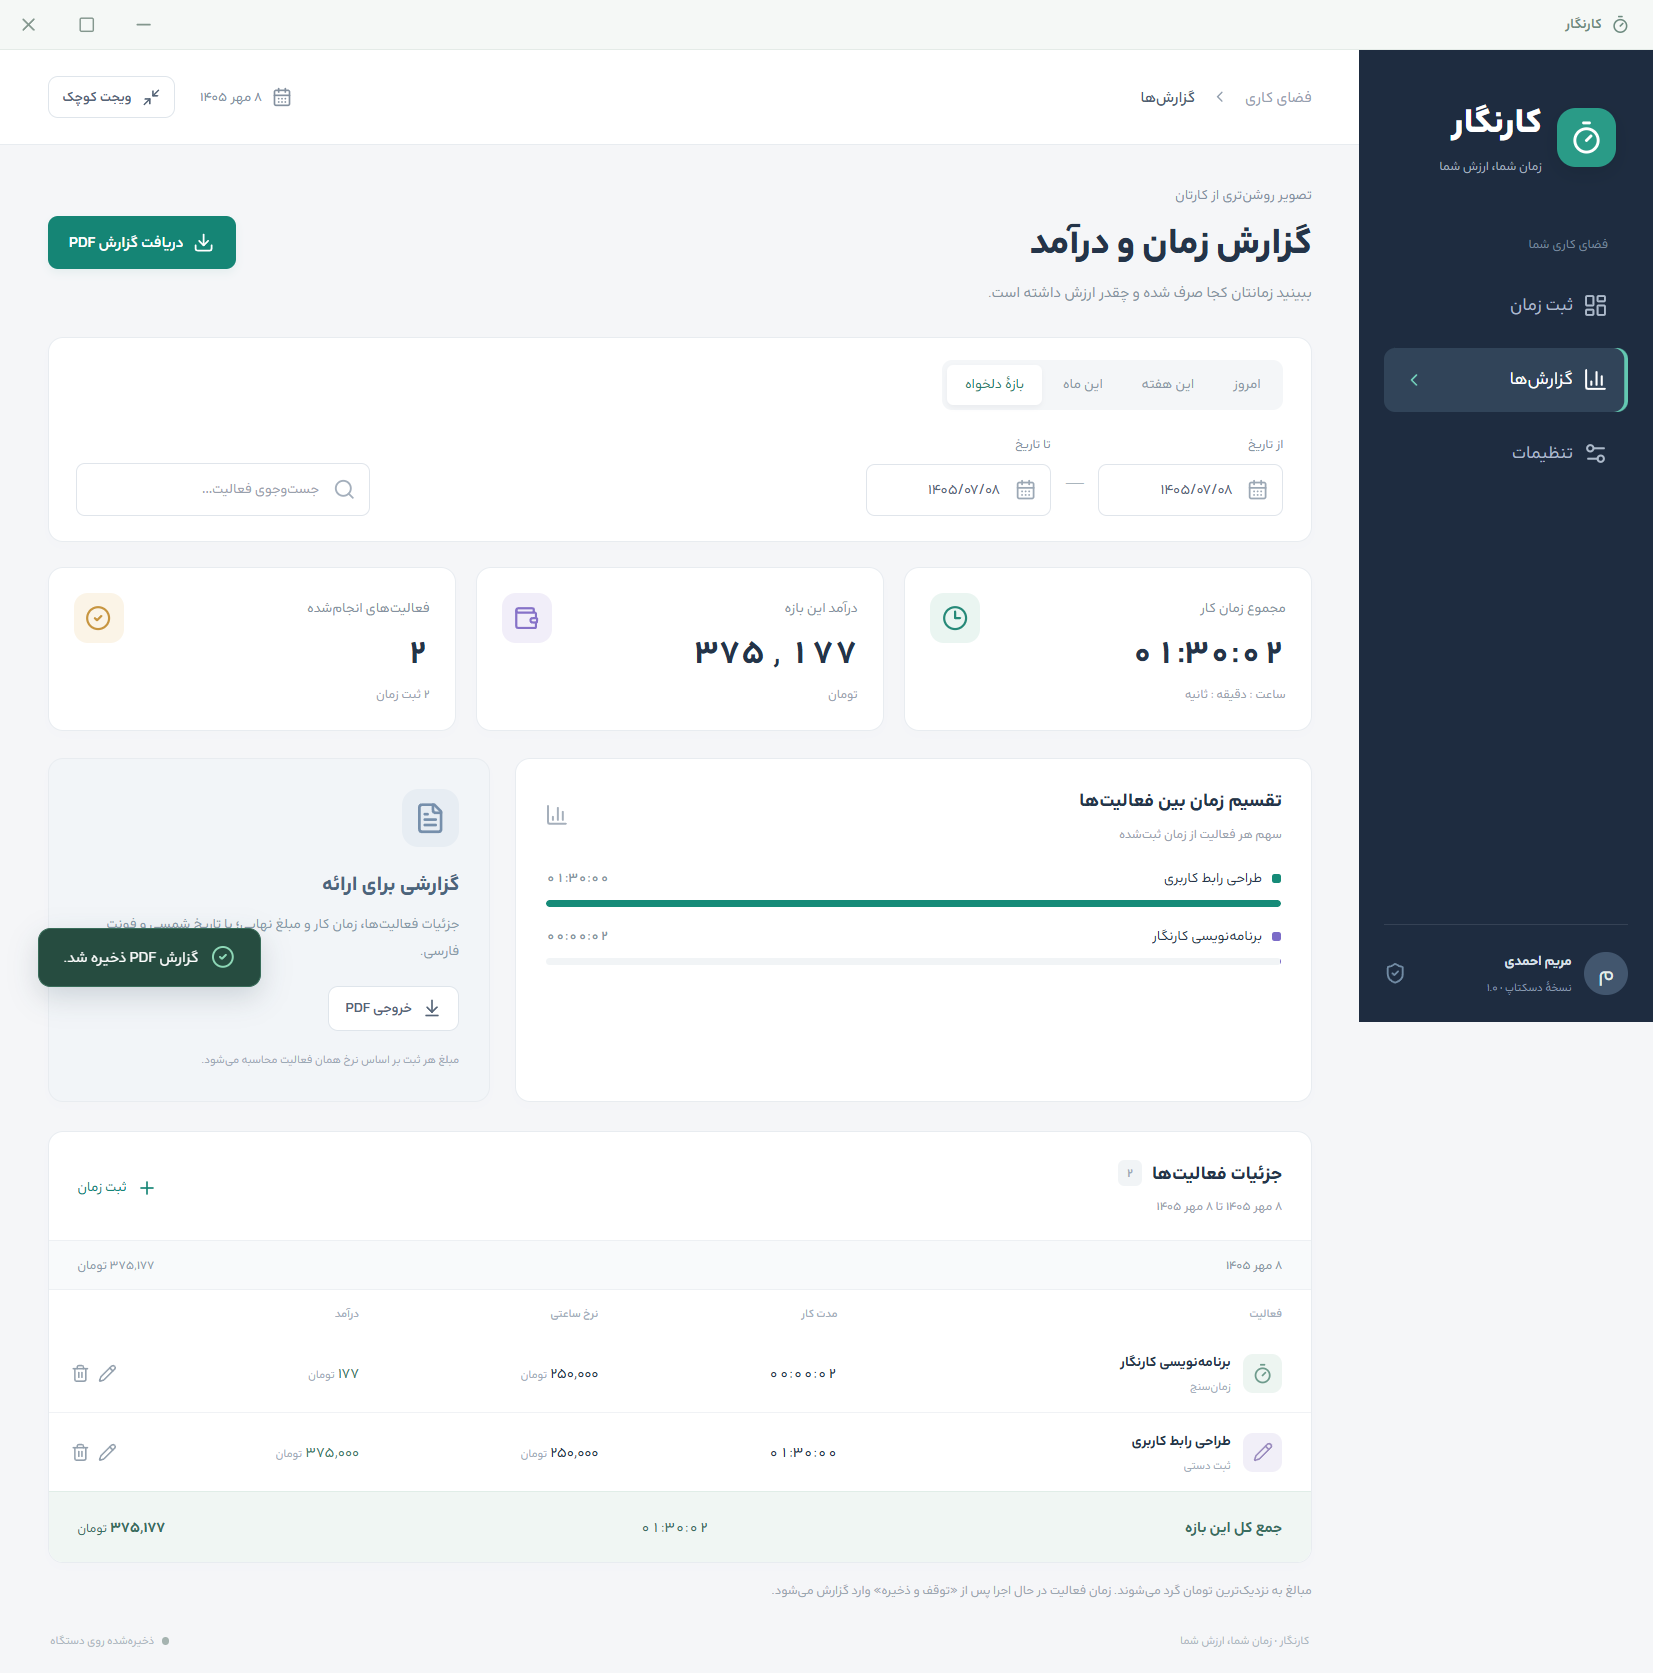
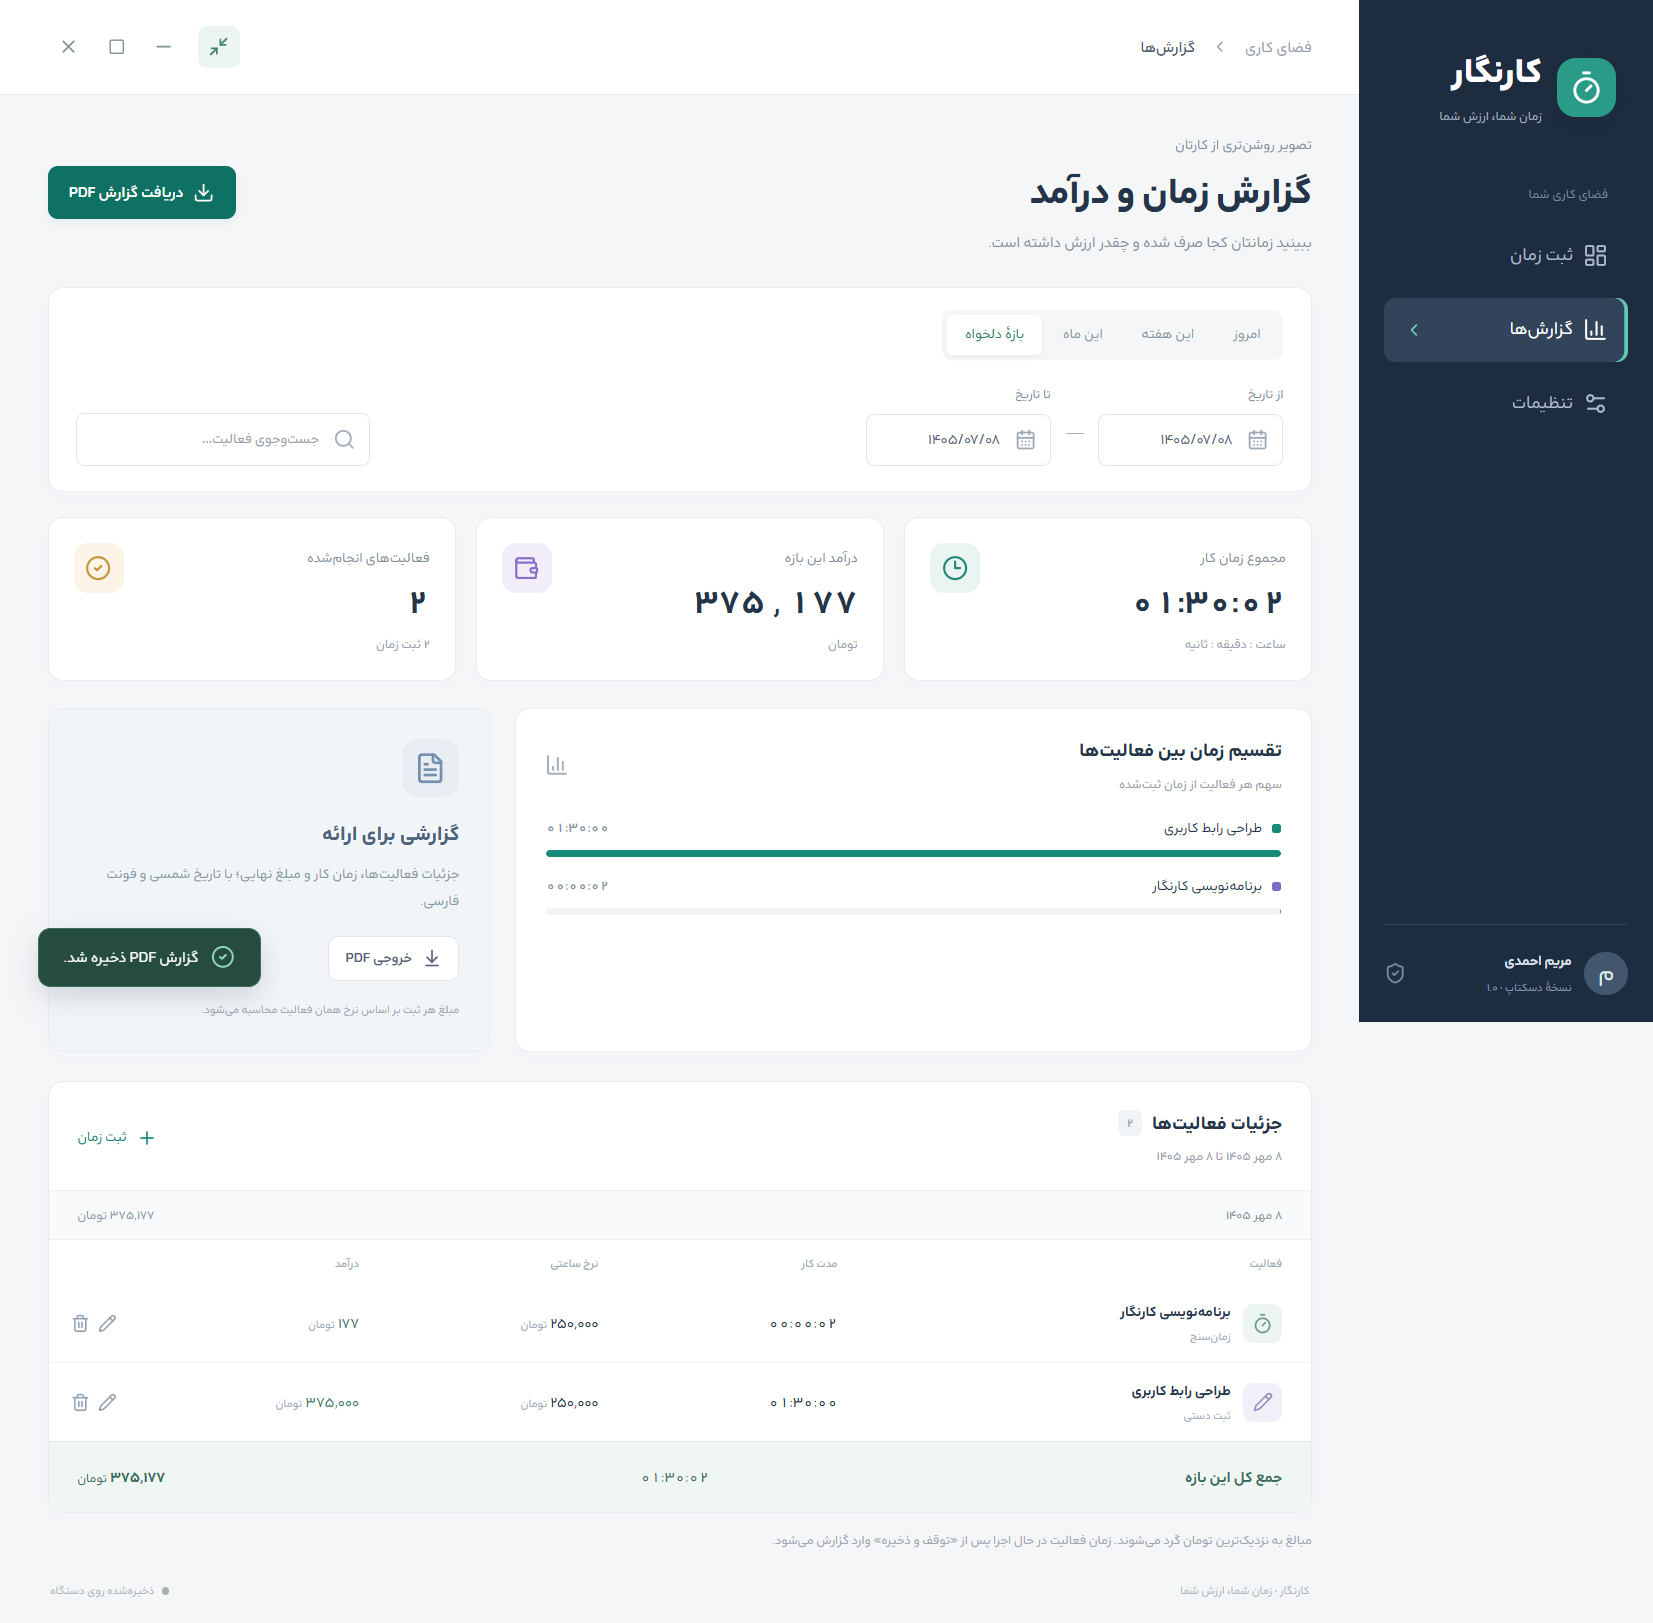
ui: move window controls into the app header
Remove the separate title bar and header date display. Use icon buttons for close, maximize/restore, minimize and widget mode while retaining draggable headers and tray behavior. Verify the packaged Windows app and refresh README screenshots.

diff --git a/src/App.tsx b/src/App.tsx
@@ -1,7 +1,7 @@
 import { useEffect, useRef, useState, type FormEvent, type ReactNode } from 'react';
 import { ArrowDownToLine, ArrowLeft, ArrowUpLeft, BarChart3, CalendarDays, Check, CheckCircle2, ChevronLeft, Clock3, Coffee, Download, FileText, LayoutDashboard, Maximize2, Minimize2, Pause, Pencil, Play, Plus, Search, Settings2, ShieldCheck, Square, Timer, Trash2, Upload, Wallet, X } from 'lucide-react';
 import DatePicker from './DatePicker';
-import WindowBar from './WindowBar';
+import WindowControls from './WindowControls';
 import { activeDuration, checkpoint, dateLabel, digits, duration, emptyState, filtered, fromDate, finishActive, groupTasks, latin, localDate, number, pauseActive, rangePreset, totals, type Entry, type State } from './model';
 import { reportHTML } from './report';
 type Page = 'timer'|'reports'|'settings';
@@ -49,9 +49,8 @@ export default function App() {
   function empty(){return <div className="empty"><span><Coffee size={30}/></span><h3>{page==='reports'?'زمانی در این بازه ثبت نشده':'اولین فعالیت خود را ثبت کنید'}</h3><p>{page==='reports'?'بازهٔ تاریخ یا عبارت جستوجو را تغییر دهید.':'با شروع زمانسنج یا ثبت دستی، مسیر کارتان را روشن کنید.'}</p>{page!=='reports'&&<button className="text-button" onClick={()=>openManual()}>ثبت دستی زمان <ArrowLeft size={15}/></button>}</div>}
   if(!loaded)return <div className="loading"><Timer size={36}/><p>{error||'کارنگار در حال آمادهشدن است…'}</p></div>;
   return <div className={`${compact?'app compact':'app'}${window.desktop?' desktop-app':''}`}>
-    <WindowBar/>
     {!compact&&<aside className="sidebar"><div className="brand"><span className="brand-mark"><Timer size={28}/></span><div><strong>کارنگار</strong><small>زمان شما، ارزش شما</small></div></div><span className="nav-label">فضای کاری شما</span><nav>{([{id:'timer',label:'ثبت زمان',icon:LayoutDashboard},{id:'reports',label:'گزارشها',icon:BarChart3},{id:'settings',label:'تنظیمات',icon:Settings2}] as const).map(n=><button key={n.id} className={page===n.id?'active':''} onClick={()=>{setPage(n.id);setQuery('')}}><n.icon size={20}/>{n.label}{page===n.id&&<ChevronLeft size={16} className="nav-chevron"/>}</button>)}</nav><div className="sidebar-bottom"><div className="profile"><span className="avatar">{state.name?state.name.slice(0,1):'ک'}</span><div><strong>{state.name||'فضای کاری شخصی'}</strong><small>نسخهٔ دسکتاپ · ۱.۰</small></div><ShieldCheck size={18}/></div></div></aside>}
-    <main>{compact?<div className="widget-heading"><div className="widget-brand"><Timer size={20}/> کارنگار</div><button className="icon-button" aria-label="نمای کامل" onClick={widget}><Maximize2 size={18}/></button></div>:<header className="topbar"><div className="breadcrumb">فضای کاری <ChevronLeft size={14}/><strong>{page==='timer'?'ثبت زمان':page==='reports'?'گزارشها':'تنظیمات'}</strong></div><div className="topbar-right"><span><CalendarDays size={16}/>{dateLabel(today,true)}</span><button className="outline small" onClick={widget}><Minimize2 size={15}/> ویجت کوچک</button></div></header>}
+    <main>{compact?<div className="widget-heading"><div className="widget-brand"><Timer size={20}/> کارنگار</div><WindowControls compact={compact} onWidget={widget}/></div>:<header className="topbar"><div className="breadcrumb">فضای کاری <ChevronLeft size={14}/><strong>{page==='timer'?'ثبت زمان':page==='reports'?'گزارشها':'تنظیمات'}</strong></div><WindowControls compact={compact} onWidget={widget}/></header>}
     <div className="content">{!compact&&<div className="page-heading"><div><span className="eyebrow">{page==='timer'?'یک روز خوب، یک قدم جلوتر':page==='reports'?'تصویر روشنتری از کارتان':'کارنگار، به سبک شما'}</span><h1>{page==='timer'?'زمان خود را ارزشمند کنید.':page==='reports'?'گزارش زمان و درآمد':'تنظیمات فضای کاری'}</h1><p>{page==='timer'?'روی کارتان تمرکز کنید؛ حساب زمان با کارنگار.':page==='reports'?'ببینید زمانتان کجا صرف شده و چقدر ارزش داشته است.':'نرخ کار و اطلاعات شخصی خود را مدیریت کنید.'}</p></div>{page==='timer'?<button className="outline" onClick={()=>openManual()}><Plus size={18}/> ثبت دستی زمان</button>:page==='reports'?<button className="primary" disabled={busy||!reportEntries.length} onClick={exportPDF}><Download size={17}/> {busy?'در حال آمادهسازی…':'دریافت گزارش PDF'}</button>:null}</div>}
     {warning&&!compact&&<div className="notice"><ShieldCheck size={18}/><span>{warning}</span><button className="icon-button" aria-label="بستن پیام" onClick={()=>setWarning('')}><X size={16}/></button></div>}
     {error&&<div className="error-banner" role="alert">{error}<button className="icon-button" aria-label="بستن خطا" onClick={()=>setError('')}><X size={16}/></button></div>}

diff --git a/src/WindowControls.tsx b/src/WindowControls.tsx
@@ -1,7 +1,7 @@
 import { useEffect, useState } from 'react';
-import { Copy, Minus, Square, Timer, X } from 'lucide-react';
+import { Copy, Maximize2, Minimize2, Minus, Square, X } from 'lucide-react';
 
-export default function WindowBar() {
+export default function WindowControls({ compact, onWidget }: { compact: boolean; onWidget: () => void }) {
   const [maximized, setMaximized] = useState(false);
   useEffect(() => {
     let alive = true;
@@ -9,13 +9,12 @@ export default function WindowBar() {
     void window.desktop?.isMaximized().then(value => { if (alive) setMaximized(value); });
     return () => { alive = false; off?.(); };
   }, []);
-  if (!window.desktop) return null;
-  return <div className="window-titlebar">
-    <div className="window-brand"><Timer size={15}/><span>کارنگار</span></div>
-    <div className="window-controls">
+  return <div className="window-controls" aria-label="کنترلهای پنجره">
+      {window.desktop && <>
       <button className="window-close" aria-label="بستن پنجره" title="بستن پنجره و ادامه در سینی سیستم" onClick={() => void window.desktop?.windowControl('close')}><X size={17}/></button>
       <button aria-label={maximized ? 'بازگرداندن اندازهٔ پنجره' : 'بزرگ کردن پنجره'} title={maximized ? 'بازگرداندن اندازهٔ پنجره' : 'بزرگ کردن پنجره'} onClick={() => void window.desktop?.windowControl('maximize')}>{maximized ? <Copy size={14}/> : <Square size={14}/>}</button>
       <button aria-label="کوچک کردن پنجره" title="کوچک کردن پنجره" onClick={() => void window.desktop?.windowControl('minimize')}><Minus size={17}/></button>
-    </div>
+      </>}
+      <button className="widget-toggle" aria-label={compact ? 'نمای کامل' : 'ویجت کوچک'} title={compact ? 'نمای کامل' : 'ویجت کوچک'} onClick={onWidget}>{compact ? <Maximize2 size={17}/> : <Minimize2 size={17}/>}</button>
   </div>;
 }

diff --git a/src/window.css b/src/window.css
@@ -2,30 +2,22 @@
 * { scrollbar-width: none; }
 *::-webkit-scrollbar { display: none; width: 0; height: 0; }
 
-.desktop-app { padding-top: 40px; }
-.desktop-app .sidebar { top: 40px; }
-.window-titlebar {
-  position: fixed;
-  inset: 0 0 auto;
-  height: 40px;
-  z-index: 25;
-  display: flex;
-  align-items: center;
-  justify-content: space-between;
-  padding-right: 19px;
-  color: #6e8b80;
-  background: #f5f8f6;
-  border-bottom: 1px solid #e4ebe7;
+.desktop-app .topbar,
+.desktop-app .widget-heading {
+  position: sticky;
+  top: 0;
+  z-index: 15;
   user-select: none;
   -webkit-app-region: drag;
   app-region: drag;
 }
-.window-brand { display: flex; align-items: center; gap: 7px; font-size: 11px; font-weight: 600; }
-.window-controls { display: flex; height: 100%; direction: ltr; -webkit-app-region: no-drag; app-region: no-drag; }
+.widget-heading { background: #f4f7f5; }
+.window-controls { display: flex; align-items: center; gap: 4px; direction: ltr; -webkit-app-region: no-drag; app-region: no-drag; }
 .window-controls button {
-  width: 46px;
+  width: 34px;
+  height: 34px;
   padding: 0;
-  border-radius: 0;
+  border-radius: 7px;
   background: transparent;
   color: #84978e;
   -webkit-app-region: no-drag;
@@ -35,4 +27,4 @@
 .window-controls .window-close:hover { background: #cc5d66; color: white; }
 .window-controls button:focus-visible { outline-offset: -4px; }
 .window-controls button:active { transform: none; }
-.compact .window-titlebar { background: #f4f7f5; }
+.window-controls .widget-toggle { margin-left: 6px; background: #edf5f1; color: #488571; }

diff --git a/README.md b/README.md
@@ -7,7 +7,7 @@
 - شروع، مکث، ادامه و توقف زمانسنج با عنوان فعالیت
 - ویجت کوچک همیشه روی پنجرهها
 - ادامهٔ زمانسنج در سینی سیستم پس از بستن پنجره، با منوی بازکردن و خروج
-- نوار عنوان اختصاصی با دکمههای بستن، کوچککردن و بزرگکردن/بازگرداندن اندازه، بدون نوار پیمایش نمایان
+- کنترلهای بستن، کوچککردن، بزرگکردن/بازگرداندن اندازه و ویجت بهصورت آیکون در سربرگ برنامه، بدون نوار عنوان جداگانه یا نوار پیمایش نمایان
 - ثبت دستی، ویرایش و حذف زمان با تأیید حذف
 - نرخ ساعتی به تومان (IRT)، با حفظ نرخ هر ثبت
 - انتخاب تاریخ جلالی؛ بازههای امروز، هفته از شنبه، ماه شمسی و بازهٔ دلخواه
